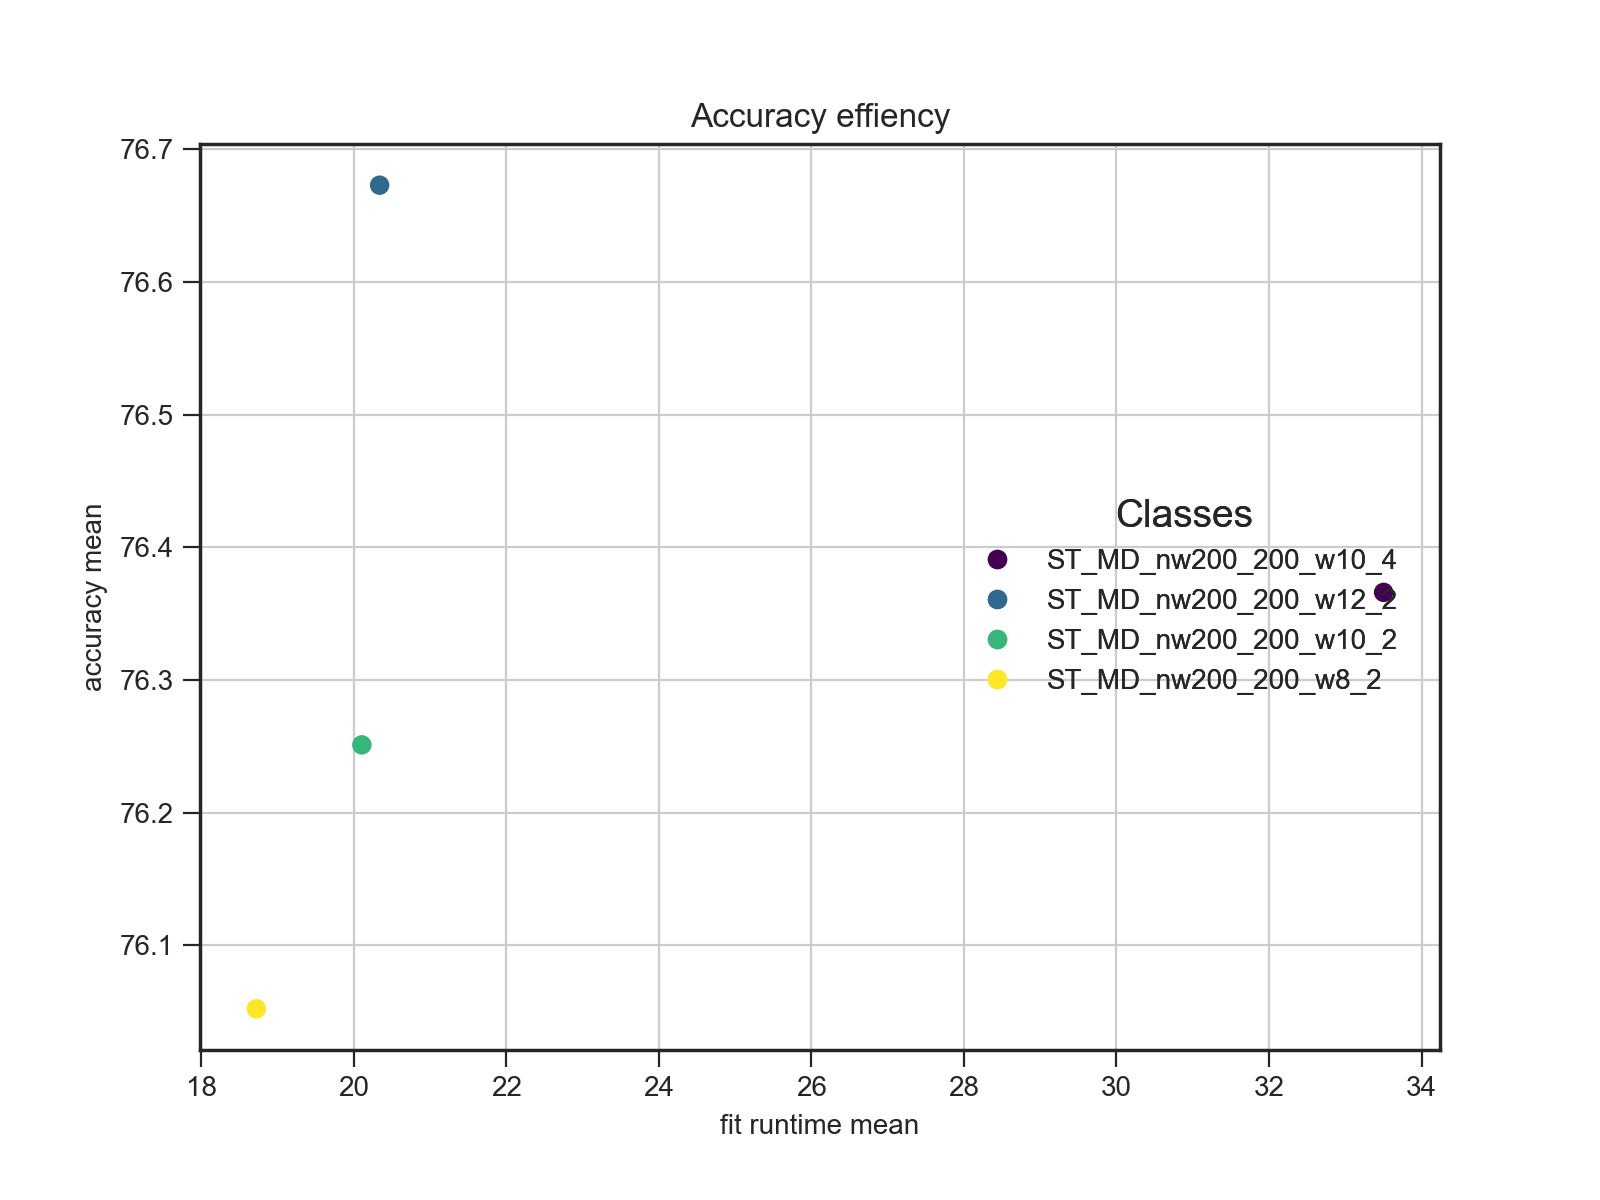
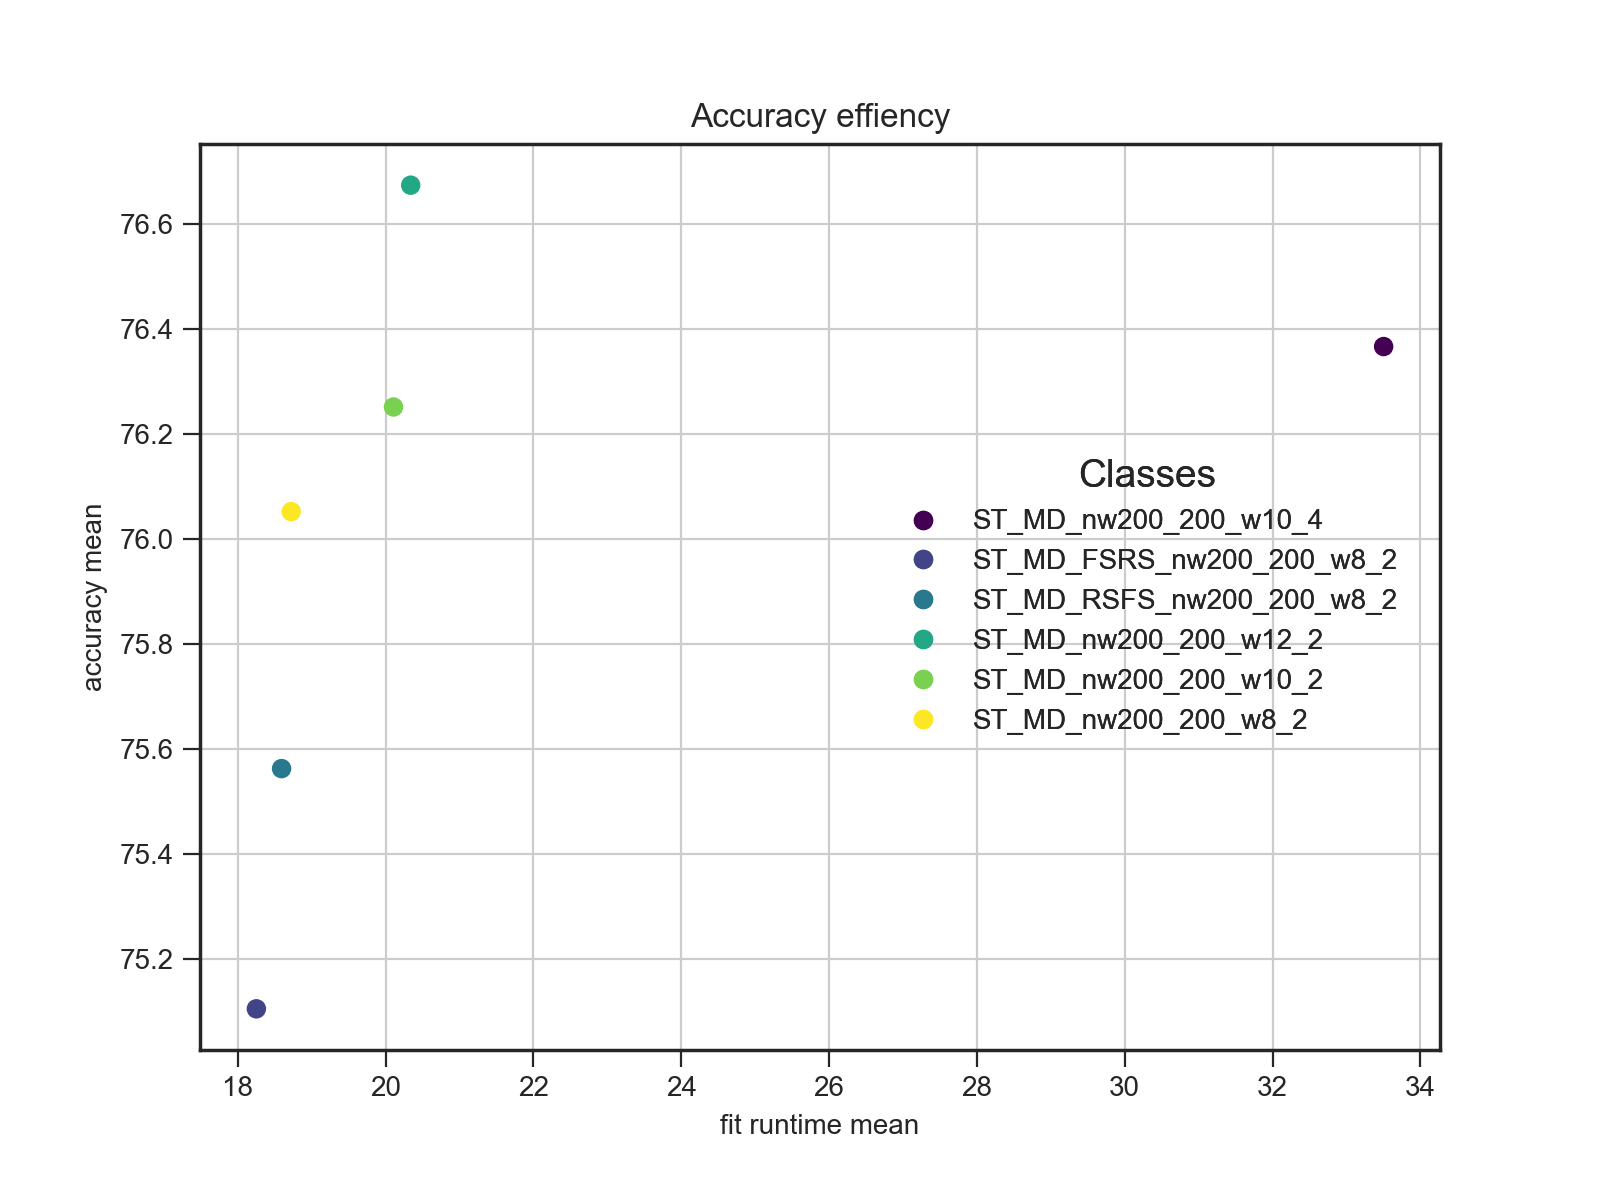
Fixing st ngrams, starting tests

diff --git a/source/experiments/UEA_Experiments/univariate_benchmarking.py b/source/experiments/UEA_Experiments/univariate_benchmarking.py
@@ -60,8 +60,8 @@ RESULT_PATH = os.path.join(actual_path, "results/")
 #]
 
 # Alternatively, we can use a helper function to create them automatically
-names = DATASET_NAMES
 names = LARGER_DATASETS_NAMES
+names = DATASET_NAMES
 datasets = [UEADataset(path=DATA_PATH, name=name) for name in names]
 
 tasks = [TSCTask(target="target") for _ in range(len(datasets))]
@@ -544,7 +544,123 @@ strategies_V2_FULL = [
         name="ST_MD_nw200_200_w8_2"),
     ]
 
-strategies_V3 = [
+
+strategies_V3_md = [
+    
+    TSCStrategy_proba(
+        SearchTechnique_Ngram(N=5,
+                              random_state=random_state),
+        name="ST_5grams"),
+    TSCStrategy_proba(
+        SearchTechnique_Ngram(N=3,
+                              random_state=random_state),
+        name="ST_3grams"),
+    TSCStrategy_proba(
+        SearchTechnique_Ngram(N=5, word_length=4,
+                              random_state=random_state),
+        name="ST_5gram_WL4"),
+    TSCStrategy_proba(
+        SearchTechnique_Ngram(N=3, word_length=4,
+                              random_state=random_state),
+        name="ST_3gram_WL4"),
+    TSCStrategy_proba(
+        SearchTechnique_Ngram(N=5, word_length=4,
+                              alphabet_size=2,
+                              random_state=random_state),
+        name="ST_5gram_WL4_A2"),
+    TSCStrategy_proba(
+        SearchTechnique_Ngram(N=3, word_length=4,
+                              alphabet_size=2,
+                              random_state=random_state),
+        name="ST_3gram_WL4_A2"),
+    ]
+
+
+
+strategies_V3_reso = [
+                  
+    TSCStrategy_proba(
+        SearchTechnique_NgramResolution(N=5,
+                                        n_words = 200,
+                                        random_state=random_state),
+        name="ST_5grams_reso"),
+    TSCStrategy_proba(
+        SearchTechnique_NgramResolution(N=3,
+                                        n_words = 200,
+                                        random_state=random_state),
+        name="ST_3grams_reso"),
+    TSCStrategy_proba(
+        SearchTechnique_NgramResolution(N=5,
+                                        n_words = 100,
+                                        random_state=random_state),
+        name="ST_5grams_reso_nw100"),
+    TSCStrategy_proba(
+        SearchTechnique_NgramResolution(N=3,
+                                        n_words = 100,
+                                        random_state=random_state),
+        name="ST_3grams_reso_nw100"),
+    TSCStrategy_proba(
+        SearchTechnique_NgramResolution(N=5,
+                                        n_words = 50,
+                                        random_state=random_state),
+        name="ST_5grams_reso_nw50"),
+    TSCStrategy_proba(
+        SearchTechnique_NgramResolution(N=3,
+                                        n_words = 50,
+                                        random_state=random_state),
+        name="ST_3grams_reso_nw50"),
+    ]
+
+
+'''
+    TSCStrategy_proba(
+        SearchTechnique_NgramResolution(N=5,
+                              word_length=4,
+                              random_state=random_state),
+        name="ST_5gram_WL4"),
+    TSCStrategy_proba(
+        SearchTechnique_NgramResolution(N=3,
+                              word_length=4,
+                              random_state=random_state),
+        name="ST_3gram_WL4"),
+    TSCStrategy_proba(
+        SearchTechnique_NgramResolution(N=5,
+                              word_length=4,
+                              alphabet_size=2,
+                              random_state=random_state),
+        name="ST_5gram_WL4_A2"),
+    TSCStrategy_proba(
+        SearchTechnique_NgramResolution(N=3,
+                              word_length=4,
+                              alphabet_size=2,
+                              random_state=random_state),
+        name="ST_3gram_WL4_A2"),    
+    ]
+
+strategies_V3_sfabigram = [
+    
+    TSCStrategy_proba(
+        SearchTechnique_NgramResolution(N=3, only_sfa=True,
+                              random_state=random_state),
+        name="ST_3grams"),
+    TSCStrategy_proba(
+        SearchTechnique_NgramResolution(N=3, only_sfa=True,
+                              word_length=4,
+                              random_state=random_state),
+        name="ST_3gram_WL4"),
+    
+    TSCStrategy_proba(
+        SearchTechnique_NgramResolution(N=3, only_sfa=True,
+                              word_length=4,
+                              alphabet_size=2,
+                              random_state=random_state),
+        name="ST_3gram_WL4_A2"),   
+    ]
+
+
+
+
+
     TSCStrategy_proba(
         SearchTechnique_SG_CLF(clf_name = '02',
                                n_words=10,
@@ -560,6 +676,7 @@ strategies_V3 = [
                                         word_length=4,
                                         random_state=random_state),
         name="ST_SFA_NgramResolution_wl4"),
+    
     TSCStrategy_proba(
         SearchTechnique_Ngram(only_sfa=True,
                               random_state=random_state),
@@ -603,15 +720,15 @@ strategies_V3 = [
                               random_state=random_state),
         name="ST_Ngram_50_100"),
     ]
-
+'''
 strategies_V4 = [
     TSCStrategy_proba(
         SearchTechnique(random_state=random_state),
         name="ST"),    
     ]
 
-strategy = strategies_V2_FULL
-variant = "ST_V2_FULL"
+strategy = strategies_V3_md
+variant = "ST_V3_md"
 
 score_strategy_path = SCORE_PATH + variant
 

diff --git a/source/technique/search_technique_Ngram.py b/source/technique/search_technique_Ngram.py
@@ -27,15 +27,12 @@ class SearchTechnique_Ngram(BaseClassifier):
                  N = 5,
                  word_length = 6,
                  alphabet_size = 4,
-                 max_sfa_windows = 20,
+                 max_sfa_windows = 10,
                  max_sax_windows = 2,
-                 total_n_words = 200,
                  fixed_words = False,
                  n_sfa_words = 10,
-                 n_sax_words = 20,
+                 n_sax_words = 200,
                  only_sfa = False,
-                 random_selection = False,
-                 randomize_best_words = False,
                  normalize = True,
                  verbose = False,
                  random_state = None):
@@ -56,10 +53,7 @@ class SearchTechnique_Ngram(BaseClassifier):
         self.remove_repeat_words = False
         
         #self.p_threshold = p_threshold
-        self.total_n_words = total_n_words
         self.fixed_words = fixed_words
-        self.random_selection = random_selection
-        self.randomize_best_words = randomize_best_words
         self.normalize = normalize
         self.verbose = verbose
         
@@ -70,13 +64,9 @@ class SearchTechnique_Ngram(BaseClassifier):
         
         self.clf =  RandomForestClassifier(criterion="gini",
                                                n_estimators = 1000,
-                                               #max_features = .4,
                                                class_weight='balanced_subsample',
                                                n_jobs=-1,
                                                random_state=random_state)
-        self.clf = SVC(probability = True,
-                           kernel = 'rbf',
-                           random_state=random_state)
         
         # Internal Variables
         self.ts_length = None
@@ -150,8 +140,6 @@ class SearchTechnique_Ngram(BaseClassifier):
             self.sax_discretizers.loc[window] = sax        
         
         bag_of_bags = self._extract_features(data, labels)
-        if self.randomize_best_words:
-            bag_of_bags = bag_of_bags.sample(frac=.5, axis=1)
         self.selected_words = bag_of_bags.columns.values
         self.clf.fit(bag_of_bags, labels)
         self._is_fitted = True
@@ -232,8 +220,6 @@ class SearchTechnique_Ngram(BaseClassifier):
 
     def _feature_selection(self, bag_of_words, labels, n_words):
         
-        if self.random_selection:
-            bag_of_words = bag_of_words.sample(frac=.5, axis=1)
         rank_value, p = chi2(bag_of_words, labels)
         word_rank = pd.DataFrame(index = bag_of_words.columns)
         word_rank['rank'] = rank_value
@@ -259,21 +245,13 @@ class SearchTechnique_Ngram(BaseClassifier):
         
         if self.verbose:
             print('Intersecting words: {}'.format( mask.sum()) )
-        return bag_of_bags            
+        return bag_of_bags[self.selected_words]   
     
     def _get_feature_matrix(self, ngram_sequences, disc_id):
                 
         ngram_counts = list(map(pd.value_counts, ngram_sequences))
         bag_of_words = pd.concat(ngram_counts, axis=1).T  
         return bag_of_words.fillna(0).astype(np.int16)
-            
-        
-        if disc_id == 1:
-            word_counting = word_sequence[0].map( pd.value_counts )
-            feature_matrix = pd.concat(list(word_counting), axis=1).T.fillna(0).astype(np.int16)
-        else:
-            feature_matrix = pd.concat(word_sequence[0].tolist(), axis=1).T.fillna(0).astype(np.int16)
-        return feature_matrix
     
     def _extract_ngram_words(self, word_sequences):
         

diff --git a/source/technique/search_technique_NgramResolution.py b/source/technique/search_technique_NgramResolution.py
@@ -34,7 +34,7 @@ class SearchTechnique_NgramResolution(BaseClassifier):
                  word_length = 6,
                  alphabet_size = 4,
                  max_num_windows = 10,                 
-                 n_words = 10,
+                 n_words = 200,
                  normalize = True,
                  verbose = False,
                  random_state = None):
@@ -210,7 +210,7 @@ class SearchTechnique_NgramResolution(BaseClassifier):
         
         if self.verbose:
             print('Intersecting words: {}'.format( mask.sum()) )
-        return bag_of_bags            
+        return bag_of_bags[self.selected_words]      
     
     def _get_feature_matrix(self, ngram_sequences):
         

diff --git a/source/technique/search_technique_SG_CLF.py b/source/technique/search_technique_SG_CLF.py
@@ -47,7 +47,7 @@ class SearchTechnique_SG_CLF(BaseClassifier):
         self.word_length = word_length
         self.alphabet_size = alphabet_size
         self.max_num_windows = max_num_windows
-        self.max_window_length = .5
+        self.max_window_length = 1
         self.remove_repeat_words = False
         
         #self.p_threshold = p_threshold

diff --git a/source/technique/search_technique_MD.py b/source/technique/search_technique_MD.py
@@ -27,7 +27,7 @@ class SearchTechnique_MD(BaseClassifier):
     def __init__(self,
                  word_length = 6,
                  alphabet_size = 4,
-                 max_sfa_windows = 20,
+                 max_sfa_windows = 8,
                  max_sax_windows = 2,
                  n_sfa_words = 200,
                  n_sax_words = 200,

diff --git a/source/experiments/UEA_Experiments/show_results.py b/source/experiments/UEA_Experiments/show_results.py
@@ -3,7 +3,7 @@
 
 import pandas as pd
 
-variant = "V2/"
+variant = "V2_FULL/"
 test = 'ST_'+variant
 file = 'results/'+test+'results.csv'
 
